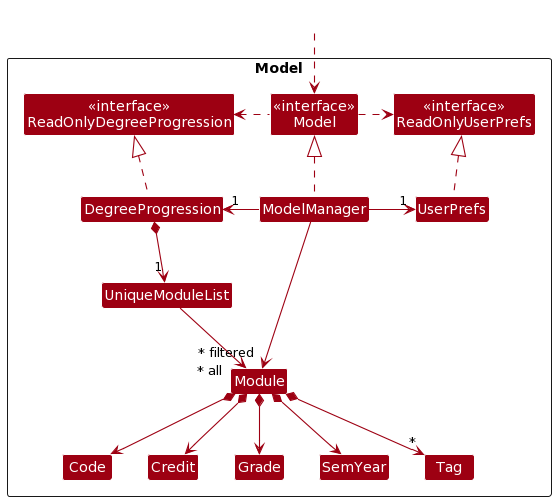
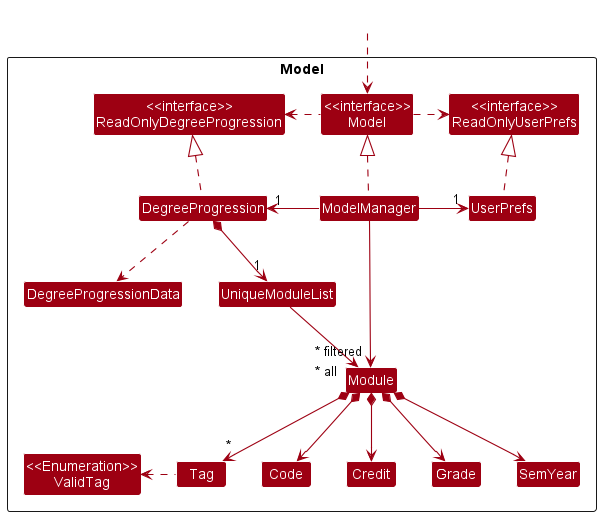
Update DG and UG for view progress

diff --git a/docs/DeveloperGuide.md b/docs/DeveloperGuide.md
@@ -161,15 +161,15 @@ How the parsing works:
 * All `XYZCommandParser` classes (e.g., `AddCommandParser`, `DeleteCommandParser`, ...) inherit from the `Parser` interface so that they can be treated similarly where possible e.g, during testing.
 
 ### Model component
-**API** : [`Model.java`](https://github.com/se-edu/addressbook-level3/tree/master/src/main/java/seedu/address/model/Model.java)
+**API** : [`Model.java`](https://github.com/AY2223S2-CS2103T-T13-1/tp/blob/master/src/main/java/seedu/modtrek/model/Model.java)
 
 <img src="images/ModelClassDiagram.png" width="450" />
 
 
 The `Model` component,
 
-* stores the degree progression data i.e., all `Module` objects (which are contained in a `UniqueModuleList` object).
-* stores the currently 'selected' `Module` objects (e.g., results of a search query) as a separate _filtered_ list which is exposed to outsiders as an unmodifiable `ObservableList<Module>` that can be 'observed' e.g. the UI can be bound to this list so that the UI automatically updates when the data in the list change.
+* stores the degree progression i.e., all `Module` objects (which are contained in a `UniqueModuleList` object) and generates `DegreeProgressionData` if needed.
+* stores the currently 'selected' `Module` objects (e.g., results of the `find` command) as a separate _filtered_ list which is exposed to outsiders as an unmodifiable `ObservableList<Module>` that can be 'observed' e.g. the UI can be bound to this list so that the UI automatically updates when the data in the list change.
 * stores a `UserPref` object that represents the user’s preferences. This is exposed to the outside as a `ReadOnlyUserPref` objects.
 * does not depend on any of the other three components (as the `Model` represents data entities of the domain, they should make sense on their own without depending on other components)
 
@@ -180,12 +180,12 @@ The `Model` component,
 
 ### Storage component
 
-**API** : [`Storage.java`](https://github.com/se-edu/addressbook-level3/tree/master/src/main/java/seedu/address/storage/Storage.java)
+**API** : [`Storage.java`](https://github.com/AY2223S2-CS2103T-T13-1/tp/blob/master/src/main/java/seedu/modtrek/storage/Storage.java)
 
 <img src="images/StorageClassDiagram.png" width="550" />
 
 The `Storage` component,
-* can save both address book data and user preference data in json format, and read them back into corresponding objects.
+* can save both degree progression's `UniqueModuleList` and user preference data in json format, and read them back into corresponding objects.
 * inherits from both `DegreeProgressionStorage` and `UserPrefStorage`, which means it can be treated as either one (if only the functionality of only one is needed).
 * depends on some classes in the `Model` component (because the `Storage` component's job is to save/retrieve objects that belong to the `Model`)
 
@@ -407,28 +407,36 @@ The View feature displays either the degree progress or modules tracked by the a
 
 The `view progress` command displays some summary statistics of the degree progress to the user as follows:
 - Percentage of total MCs completed thus far.
-- Number of MCs completed out of total MCs required to compete the CS degree.
+- Number of meaningful (details of meaningful will be under [Generation of Progression Data](#generation-of-degree-progression-data)) MCs completed out of total MCs required to compete the CS degree.
 - Current CAP.
 - Percentage of MCs completed for each degree requirement, displayed in a doughnut chart.
+
+The `view progress` command also displays more details on the (`CliScreen`) of the GUI to the user as follows:
+- Current CAP.
+- Number of MCs completed for each degree requirement.
+- Number of MCs in total for planned modules.
+- Number of meaningful MCs
 
 The `view modules` command displays all modules that have been added to the app by the user thus far. The modules displayed are categorised by year/semester by default. The criteria of categorisation can be changed via the `sort` command (described **below**). The following details of each module is displayed:
 - Module code
 - Modular credits
 - Year/semester
 - Grade (if applicable)
-- Tags (degree requirements)
+- Tags (degree requirements, if tagged)
 
 #### How it is implemented
 **View degree progress:**
 The following are noteworthy classes involved in the handling of `view progress` command:
-- `ViewCommand` which handles the parsing of the command.
-- `ViewProgressCommand` which handles the command execution.
+- `ViewCommand` which handles the execution of the command.
+- `ViewCommandParser` which handles the parsing of the command.
 - `ProgressSection` which displays the current degree progress on the GUI.
+- `DegreeProgressionData` which calculates the relevant details based on the module list.
+- `DegreeProgressionException` which denotes calculation exception.
 
 **View modules:**
 The following are noteworthy classes involved in the handling of `view modules` command:
-- `ViewCommand` which handles the parsing of the command.
-- `ViewModulesCommand` which handles the command execution.
+- `ViewCommand` which handles the parsing and execution of the command.
+- `ViewCommandParser` which handles the parsing of the command.
 - `ModuleListSection` which displays all the modules on the GUI.
 
 The implementation details are described in further details below.
@@ -437,14 +445,16 @@ The implementation details are described in further details below.
 1. The user inputs the `view` command.
 2. `ModTrekParser` processes the input and creates a new `ViewCommandParser`.
 3. The `ViewCommandParser` validates whether `<VIEW_TARGET>` is present in the input and is either `progress` or `modules`. If `<VIEW_TARGET>` is absent or invalid, a `ParseException` would be thrown.
-4. The `ViewCommandParser` then creates either `ViewProgressCommand` or `ViewModulesCommand`, depending on `<VIEW_TARGET>`.
+4. The `ViewCommandParser` then creates a `ViewCommand`, determined by the `<VIEW_TARGET>`.
 
 #### Command execution
 **View degree progress:**
-- `LogicManager` executes `ViewProgressCommand` and returns a `CommandResult`, encapsulating the information that degree progress is to be displayed.
+- `LogicManager` executes `ViewCommand` and generates the `DegreeProgressionData`.
+- If the `DegreeProgressionData` is invalid, a `CommandException` is thrown to notify the user that the calculation has an error.
+- On success, the execution returns a `CommandResult`, encapsulating the information that degree progress is to be displayed and the information to be displayed on the (`CliScreen`).
 
-**View degree progress:**
-- `LogicManager` executes `ViewModulesCommand` and returns a `CommandResult`, encapsulating the information that all modules tracked by the app so far are to be displayed.
+**View modules:**
+- `LogicManager` executes `ViewCommand` and returns a `CommandResult`, encapsulating the information that all modules tracked by the app so far are to be displayed.
 
 #### Displaying of result
 1. `MainWindow` validates from the returned `CommandResult` that the degree progress is to be displayed on the GUI, and calls `ResultsSection::displayProgress`. `ResultsSection::displayProgress` takes in a `ReadOnlyDegreeProgression` object which encapsulates information on the user's current degree progress, based on the modules added by the user thus far.
@@ -452,13 +462,23 @@ The implementation details are described in further details below.
 3. `DoughnutChart` obtains and displays summary statistics regarding the degree progress through the `DegreeProgressionData` object.
 
 
-The following sequence diagram illustrates how the `view` command works:
+The following sequence diagram illustrates how the `view` command works for the GUI:
 
-![ViewSequenceDiagram](images/ViewSequenceDiagram.png)
+![ViewSequenceUiDiagram](images/ViewSequenceUiDiagram.png)
 
-The following activity illustrates the workflow of the `view` command:
+The following sequence diagram illustrates what happens when the user inputs the `view progress` command:
+![ViewSequenceLogicDiagram](images/ViewSequenceLogicDiagram.png)
+
+The following activity diagram illustrates the workflow of the `view` command:
 
 ![ViewActivityDiagram](images/ViewActivityDiagram.png)
+
+#### Generation of Degree Progression Data
+An algorithm is used to generate the necessary data for `view progress`. **Meaningful credits** are credits counted into the requirements that are not duplicated. This is to prevent the scenario where multiple modules tagged into a singular requirement and the overall completion rate is 100%.
+
+The following activity diagram illustrates the workflow of the algorithm when `DegreeProgressionData::generate` is called with the module list:
+
+![DataCalculation](images/DataCalculation.png)
 
 #### Design considerations
 **Aspect: How to signal the Ui component to display the relevant screen (either `ProgressSection` or `ModuleListSection`), while ensuring that the _Single Responsibility Principle_ is not violated?**

diff --git a/docs/UserGuide.md b/docs/UserGuide.md
@@ -343,6 +343,13 @@ Toggles between the display of degree progress or module list.
 :bulb: **Tip:** You can also click the different screen names at the bottom of the results panel to navigate between the different screens.
 </div>
 
+<div markdown="span" class="alert alert-warning">
+
+:exclamation: **Caution:** The MCs shown on the screen does NOT equate to the sum of all the MCs in your module lists. After some consideration, we will only show the meaningful credits, which are those that are counted towards the requirements. 
+
+For more detailed information on the calculations, please refer to this [section](DeveloperGuide.md#generation-of-degree-progression-data) in our developer guide.
+</div>
+
 [Back to Table of Contents](#toc)
 
 #### 4.8 Exit MODTrek : `exit` <a name="exit-app"></a>
